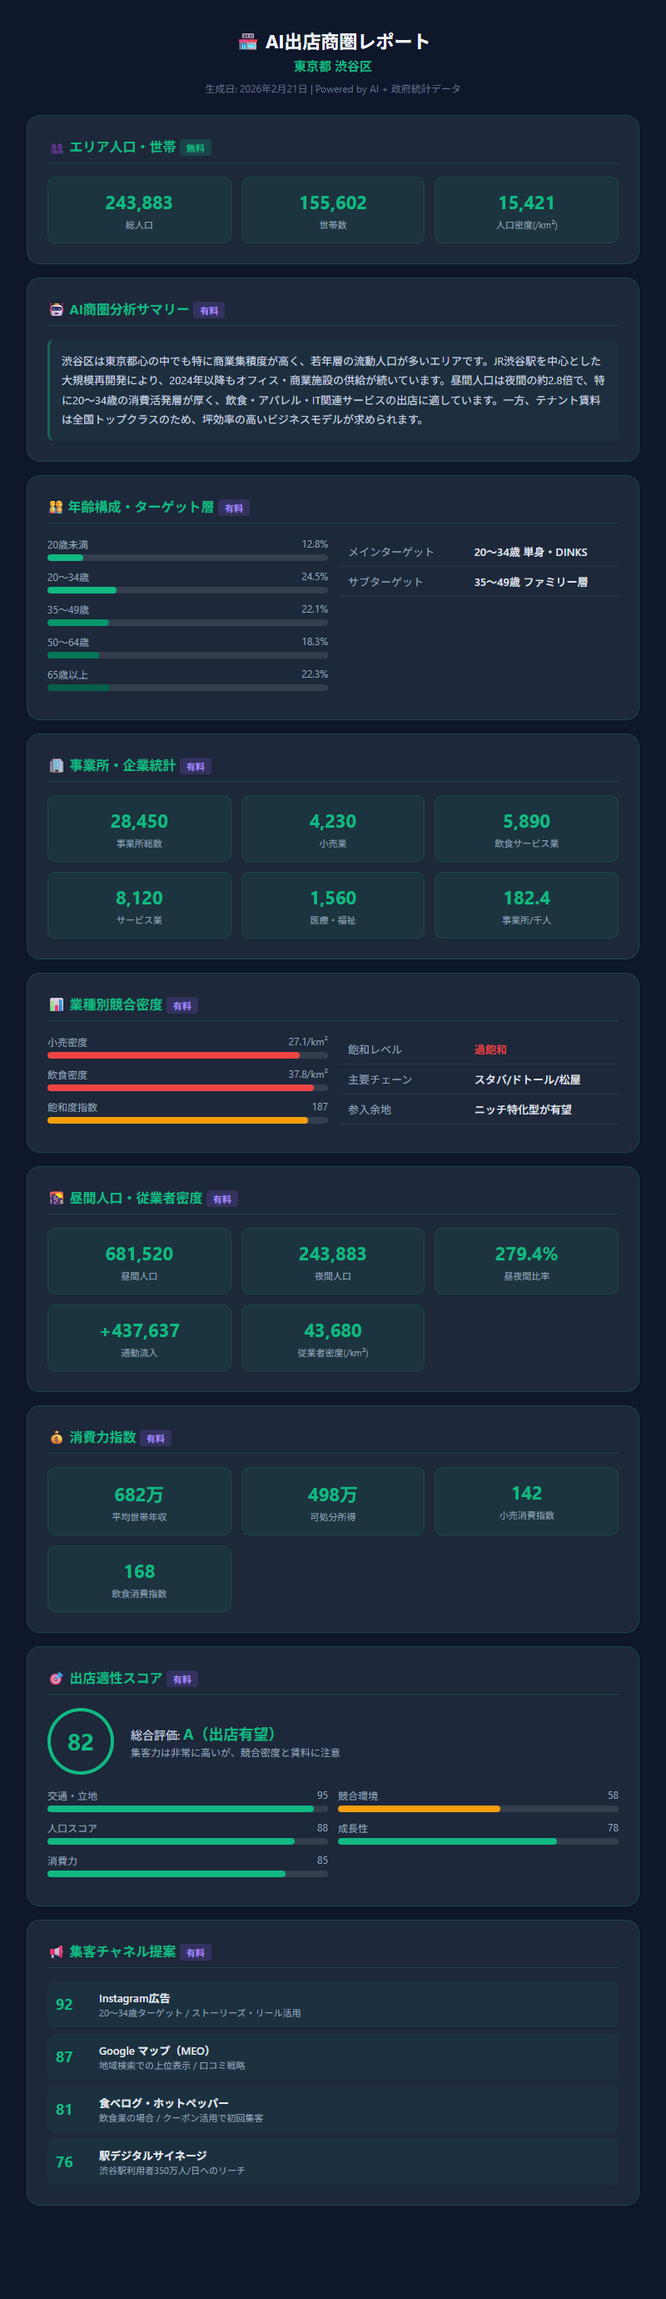
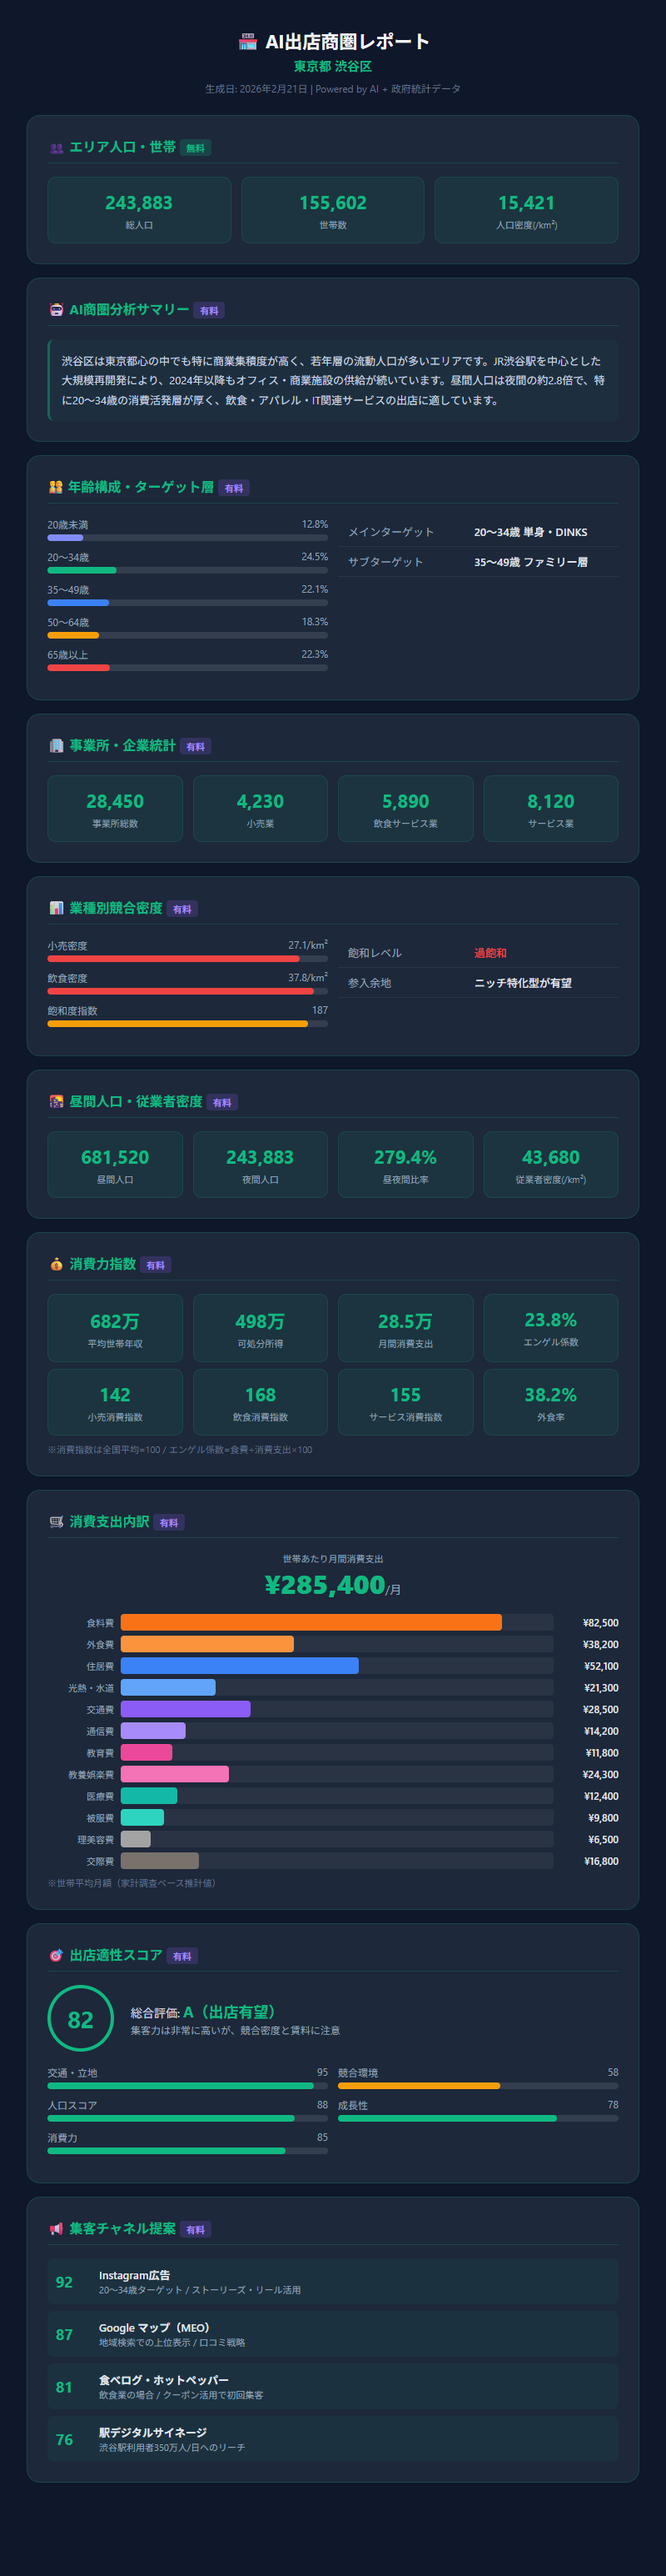
Add consumer spending breakdown, expand spending power to 8 items, 10 sections total

diff --git a/app.js b/app.js
@@ -575,6 +575,8 @@ function buildShokenPrompt(area, estatPop) {
     'できる限り正確な数値を提供してください。正確な数値が不明な場合は、合理的な推計値を提供し、sourceフィールドに「推計」と明記してください。\n\n' +
     '重要ルール:\n' +
     '・avg_household_income, disposable_income は万円単位の数値で返してください\n' +
+    '・monthly_expenditure は万円/月の数値で返してください\n' +
+    '・consumer_spending の各項目は円/月の数値で返してください\n' +
     '・人口・世帯数は実数（人・世帯）で返してください\n' +
     '・パーセンテージは数値のみ（例: 25.3）で返してください\n' +
     '・shoken_summary は1000文字程度の日本語テキストで、商圏の特徴・出店メリット/デメリット・推奨業種を具体的に記述してください\n\n' +
@@ -611,8 +613,18 @@ function buildShokenPrompt(area, estatPop) {
       },
       spending_power: {
         avg_household_income: 0, disposable_income: 0,
+        monthly_expenditure: 0,
         retail_spending_index: 0, food_spending_index: 0,
-        note: 'avg_household_income, disposable_incomeは万円単位。spending_indexは全国平均=100'
+        service_spending_index: 0,
+        engel_coefficient: 0, eating_out_rate: 0,
+        note: 'income系は万円/年、monthly_expenditureは万円/月、index系は全国平均=100、coefficient/rateは%'
+      },
+      consumer_spending: {
+        food_total: 0, eating_out: 0, housing: 0, utilities: 0,
+        clothing: 0, medical: 0, transportation: 0, education: 0,
+        entertainment: 0, communication: 0, personal_care: 0,
+        social_expenses: 0, total_monthly: 0,
+        note: '全て円/月・世帯平均。家計調査ベースの推計値'
       },
       location_score: {
         overall_score: 0, traffic_score: 0, population_score: 0,
@@ -836,21 +848,79 @@ function renderResults(data, purchased) {
       '<div class="stat-grid">' +
       '<div class="stat-box"><div class="stat-box__value">' + (sp.avg_household_income ? formatNumber(toMan(sp.avg_household_income)) + '万' : '—') + '</div><div class="stat-box__label">平均世帯年収</div></div>' +
       '<div class="stat-box"><div class="stat-box__value">' + (sp.disposable_income ? formatNumber(toMan(sp.disposable_income)) + '万' : '—') + '</div><div class="stat-box__label">可処分所得</div></div>' +
+      '<div class="stat-box"><div class="stat-box__value">' + (sp.monthly_expenditure ? formatNumber(toMan(sp.monthly_expenditure)) + '万' : '—') + '</div><div class="stat-box__label">月間消費支出</div></div>' +
+      '<div class="stat-box"><div class="stat-box__value">' + (sp.engel_coefficient ? sp.engel_coefficient + '%' : '—') + '</div><div class="stat-box__label">エンゲル係数</div></div>' +
+      '</div>' +
+      '<div class="stat-grid" style="margin-top:8px;">' +
       '<div class="stat-box"><div class="stat-box__value">' + (sp.retail_spending_index || '—') + '</div><div class="stat-box__label">小売消費指数</div></div>' +
       '<div class="stat-box"><div class="stat-box__value">' + (sp.food_spending_index || '—') + '</div><div class="stat-box__label">飲食消費指数</div></div>' +
+      '<div class="stat-box"><div class="stat-box__value">' + (sp.service_spending_index || '—') + '</div><div class="stat-box__label">サービス消費指数</div></div>' +
+      '<div class="stat-box"><div class="stat-box__value">' + (sp.eating_out_rate ? sp.eating_out_rate + '%' : '—') + '</div><div class="stat-box__label">外食率</div></div>' +
       '</div>' +
-      '<p style="font-size:11px; color:var(--text-muted); margin-top:8px;">※消費指数は全国平均=100</p>' +
+      '<p style="font-size:11px; color:var(--text-muted); margin-top:8px;">※消費指数は全国平均=100 / エンゲル係数=食費÷消費支出×100</p>' +
       '</div></div>';
   }
 
-  // ⑧ 出店適性スコア（有料）
+  // ⑧ 消費支出内訳（有料・新規）
+  if (m.consumer_spending) {
+    var cs = m.consumer_spending;
+    var spendItems = [
+      { key: 'food_total', label: '食料費', color: '#f97316' },
+      { key: 'eating_out', label: '外食費', color: '#fb923c' },
+      { key: 'housing', label: '住居費', color: '#3b82f6' },
+      { key: 'utilities', label: '光熱・水道', color: '#60a5fa' },
+      { key: 'transportation', label: '交通費', color: '#8b5cf6' },
+      { key: 'communication', label: '通信費', color: '#a78bfa' },
+      { key: 'education', label: '教育費', color: '#ec4899' },
+      { key: 'entertainment', label: '教養娯楽費', color: '#f472b6' },
+      { key: 'medical', label: '医療費', color: '#14b8a6' },
+      { key: 'clothing', label: '被服費', color: '#2dd4bf' },
+      { key: 'personal_care', label: '理美容費', color: '#a3a3a3' },
+      { key: 'social_expenses', label: '交際費', color: '#78716c' }
+    ];
+    var maxVal = 0;
+    spendItems.forEach(function(it) { if ((cs[it.key] || 0) > maxVal) maxVal = cs[it.key]; });
+    if (maxVal === 0) maxVal = 1;
+
+    html += '<div class="result-card' + paidClass + '" data-section="paid">' +
+      '<div class="result-card__header"><div class="result-card__icon">🛒</div>' +
+      '<div><div class="result-card__title">⑧ 消費支出内訳</div>' +
+      '<div class="result-card__subtitle">' + (purchased ? '' : '<span class="badge-paid">有料</span>') + '</div></div></div>' +
+      '<div class="result-card__body">' + paidOverlay;
+
+    if (cs.total_monthly) {
+      html += '<div style="text-align:center; margin-bottom:16px;">' +
+        '<div style="font-size:11px; color:var(--text-muted);">世帯あたり月間消費支出</div>' +
+        '<div style="font-size:32px; font-weight:900; color:#10b981;">¥' + formatNumber(cs.total_monthly) + '<span style="font-size:14px; font-weight:400; color:var(--text-muted);">/月</span></div>' +
+        '</div>';
+    }
+
+    html += '<div style="display:flex; flex-direction:column; gap:6px;">';
+    spendItems.forEach(function(it) {
+      var val = cs[it.key] || 0;
+      var pct = maxVal > 0 ? Math.round(val / maxVal * 100) : 0;
+      html += '<div style="display:flex; align-items:center; gap:8px;">' +
+        '<div style="width:80px; font-size:11px; color:var(--text-secondary); text-align:right;">' + it.label + '</div>' +
+        '<div style="flex:1; height:20px; background:rgba(255,255,255,0.05); border-radius:4px; overflow:hidden;">' +
+        '<div style="height:100%; width:' + pct + '%; background:' + it.color + '; border-radius:4px; transition:width 0.5s;"></div>' +
+        '</div>' +
+        '<div style="width:70px; font-size:12px; font-weight:600; color:var(--text-primary); text-align:right;">¥' + formatNumber(val) + '</div>' +
+        '</div>';
+    });
+    html += '</div>';
+
+    html += '<p style="font-size:11px; color:var(--text-muted); margin-top:10px;">※世帯平均月額（家計調査ベース推計値）</p>' +
+      '</div></div>';
+  }
+
+  // ⑨ 出店適性スコア（有料）
   if (m.location_score) {
     var ls = m.location_score;
     var gradeColor = { S: '#10b981', A: '#3b82f6', B: '#f59e0b', C: '#f97316', D: '#ef4444' };
     var gc = gradeColor[ls.grade] || '#94a3b8';
     html += '<div class="result-card' + paidClass + '" data-section="paid">' +
       '<div class="result-card__header"><div class="result-card__icon">🎯</div>' +
-      '<div><div class="result-card__title">⑧ 出店適性スコア</div>' +
+      '<div><div class="result-card__title">⑨ 出店適性スコア</div>' +
       '<div class="result-card__subtitle">' + (purchased ? '' : '<span class="badge-paid">有料</span>') + '</div></div></div>' +
       '<div class="result-card__body">' + paidOverlay +
       '<div style="text-align:center; margin-bottom:16px;">' +
@@ -874,13 +944,13 @@ function renderResults(data, purchased) {
     html += '</div></div>';
   }
 
-  // ⑨ 集客チャネル（有料）
+  // ⑩ 集客チャネル（有料）
   if (m.marketing_channels) {
     var mc = m.marketing_channels;
     var channels = mc.channels || [];
     html += '<div class="result-card' + paidClass + '" data-section="paid">' +
       '<div class="result-card__header"><div class="result-card__icon">📢</div>' +
-      '<div><div class="result-card__title">⑨ 集客チャネル</div>' +
+      '<div><div class="result-card__title">⑩ 集客チャネル</div>' +
       '<div class="result-card__subtitle">' + (purchased ? '' : '<span class="badge-paid">有料</span>') + '</div></div></div>' +
       '<div class="result-card__body">' + paidOverlay;
 
@@ -1313,15 +1383,40 @@ async function exportPDF() {
     html += '<table style="' + TBL + '">';
     html += r('平均世帯年収（万円）', sp.avg_household_income ? toMan(sp.avg_household_income) : '—');
     html += r('可処分所得（万円）', sp.disposable_income ? toMan(sp.disposable_income) : '—');
+    html += r('月間消費支出（万円）', sp.monthly_expenditure ? toMan(sp.monthly_expenditure) : '—');
+    html += r('エンゲル係数（%）', sp.engel_coefficient || '—');
     html += r('小売消費指数（全国=100）', sp.retail_spending_index || '—');
     html += r('飲食消費指数（全国=100）', sp.food_spending_index || '—');
+    html += r('サービス消費指数（全国=100）', sp.service_spending_index || '—');
+    html += r('外食率（%）', sp.eating_out_rate || '—');
+    html += '</table></div>';
+  }
+
+  // ===== 消費支出内訳 =====
+  if (m.consumer_spending) {
+    var cs = m.consumer_spending;
+    html += '<div style="' + S + '"><div style="' + T + '">8. 消費支出内訳（世帯月額）</div>';
+    html += '<table style="' + TBL + '">';
+    html += r('食料費', cs.food_total ? '¥' + formatNumber(cs.food_total) : '—');
+    html += r('外食費', cs.eating_out ? '¥' + formatNumber(cs.eating_out) : '—');
+    html += r('住居費', cs.housing ? '¥' + formatNumber(cs.housing) : '—');
+    html += r('光熱・水道', cs.utilities ? '¥' + formatNumber(cs.utilities) : '—');
+    html += r('交通費', cs.transportation ? '¥' + formatNumber(cs.transportation) : '—');
+    html += r('通信費', cs.communication ? '¥' + formatNumber(cs.communication) : '—');
+    html += r('教育費', cs.education ? '¥' + formatNumber(cs.education) : '—');
+    html += r('教養娯楽費', cs.entertainment ? '¥' + formatNumber(cs.entertainment) : '—');
+    html += r('医療費', cs.medical ? '¥' + formatNumber(cs.medical) : '—');
+    html += r('被服費', cs.clothing ? '¥' + formatNumber(cs.clothing) : '—');
+    html += r('理美容費', cs.personal_care ? '¥' + formatNumber(cs.personal_care) : '—');
+    html += r('交際費', cs.social_expenses ? '¥' + formatNumber(cs.social_expenses) : '—');
+    html += r('月間合計', cs.total_monthly ? '¥' + formatNumber(cs.total_monthly) : '—');
     html += '</table></div>';
   }
 
   // ===== 出店適性スコア =====
   if (m.location_score) {
     var ls = m.location_score;
-    html += '<div style="' + S + '"><div style="' + T + '">8. 出店適性スコア</div>';
+    html += '<div style="' + S + '"><div style="' + T + '">9. 出店適性スコア</div>';
     html += '<table style="' + TBL + '">';
     html += r('総合スコア（/100）', ls.overall_score || '—');
     html += r('グレード', ls.grade || '—');
@@ -1337,7 +1432,7 @@ async function exportPDF() {
   // ===== 集客チャネル =====
   if (m.marketing_channels) {
     var mc = m.marketing_channels;
-    html += '<div style="' + S + '"><div style="' + T + '">9. 集客チャネル</div>';
+    html += '<div style="' + S + '"><div style="' + T + '">10. 集客チャネル</div>';
     if (mc.channels && mc.channels.length > 0) {
       html += '<table style="' + TBL + '">';
       html += '<tr><th style="' + TH + 'width:26%;">チャネル</th><th style="' + TH + 'width:12%;">スコア</th><th style="' + TH + 'width:62%;">理由</th></tr>';
@@ -1488,11 +1583,32 @@ function exportExcel() {
   var sp = m.spending_power || {};
   pushDataRow('平均世帯年収（万円）', sp.avg_household_income ? toMan(sp.avg_household_income) : '', '');
   pushDataRow('可処分所得（万円）', sp.disposable_income ? toMan(sp.disposable_income) : '', '');
+  pushDataRow('月間消費支出（万円）', sp.monthly_expenditure ? toMan(sp.monthly_expenditure) : '', '');
+  pushDataRow('エンゲル係数（%）', sp.engel_coefficient || '', '');
   pushDataRow('小売消費指数（全国=100）', sp.retail_spending_index, '');
   pushDataRow('飲食消費指数（全国=100）', sp.food_spending_index, '');
+  pushDataRow('サービス消費指数（全国=100）', sp.service_spending_index || '', '');
+  pushDataRow('外食率（%）', sp.eating_out_rate || '', '');
 
-  // ===== ⑦ 出店適性スコア =====
-  pushSectionHeader('⑦ 出店適性スコア');
+  // ===== ⑥-2 消費支出内訳 =====
+  pushSectionHeader('⑥-2 消費支出内訳（世帯月額・円）');
+  var cs = m.consumer_spending || {};
+  pushDataRow('食料費', cs.food_total || '', '');
+  pushDataRow('外食費', cs.eating_out || '', '');
+  pushDataRow('住居費', cs.housing || '', '');
+  pushDataRow('光熱・水道', cs.utilities || '', '');
+  pushDataRow('交通費', cs.transportation || '', '');
+  pushDataRow('通信費', cs.communication || '', '');
+  pushDataRow('教育費', cs.education || '', '');
+  pushDataRow('教養娯楽費', cs.entertainment || '', '');
+  pushDataRow('医療費', cs.medical || '', '');
+  pushDataRow('被服費', cs.clothing || '', '');
+  pushDataRow('理美容費', cs.personal_care || '', '');
+  pushDataRow('交際費', cs.social_expenses || '', '');
+  pushDataRow('月間合計', cs.total_monthly || '', '');
+
+  // ===== ⑧ 出店適性スコア =====
+  pushSectionHeader('⑧ 出店適性スコア');
   var ls = m.location_score || {};
   pushDataRow('総合スコア（/100）', ls.overall_score, '');
   pushDataRow('グレード', ls.grade, '');
@@ -1503,8 +1619,8 @@ function exportExcel() {
   pushDataRow('成長性スコア', ls.growth_score, '');
   if (ls.ai_recommendation) pushDataRow('AI総合判定', ls.ai_recommendation, '');
 
-  // ===== ⑧ 集客チャネル =====
-  pushSectionHeader('⑧ 集客チャネル');
+  // ===== ⑨ 集客チャネル =====
+  pushSectionHeader('⑨ 集客チャネル');
   var mc = m.marketing_channels || {};
   var channels = mc.channels || [];
   if (channels.length > 0) {
@@ -1526,8 +1642,8 @@ function exportExcel() {
   pushDataRow('最も推奨チャネル', mc.best_channel, '');
   pushDataRow('集客戦略サマリー', mc.strategy_summary, '');
 
-  // ===== ⑨ AI商圏分析サマリー =====
-  pushSectionHeader('⑨ AI商圏分析サマリー');
+  // ===== ⑩ AI商圏分析サマリー =====
+  pushSectionHeader('⑩ AI商圏分析サマリー');
   var summaryText = m.shoken_summary || '';
   var formattedSummary = summaryText.replace(/\r\n|\r|\n/g, '\r\n');
   var summaryRowIdx = rows.length;
